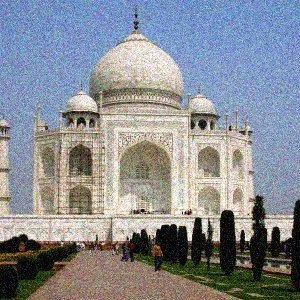
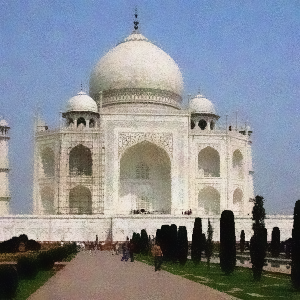
bilateral filtering

diff --git a/event_handling.py b/event_handling.py
@@ -1,6 +1,10 @@
 import cv2
 
-img = cv2.imread("template_matching/taj.png")
+img = cv2.imread("taj.png")
+
+img = cv2.bilateralFilter(img, 15, 75, 75)
+
+cv2.imwrite("taj.png", img)
 
 cv2.imshow("image", img)
 
@@ -14,7 +18,7 @@ def mouse_click(event, x, y, flags, params):
                 cropped = img[y1:y2+1, x1:x2+1]
             else:
                 cropped = img[y2:y1+1, x2:x1+1]
-            cv2.imwrite("template_matching/template.png", cropped)
+            cv2.imwrite("template.png", cropped)
             cv2.imshow("cropped", cropped)
         cv2.imshow("image", img)
 
